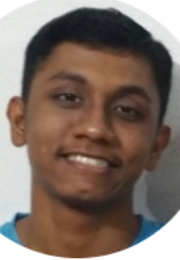
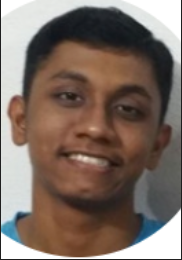
Update AboutUs to resolve image issues

diff --git a/docs/AboutUs.md b/docs/AboutUs.md
@@ -21,7 +21,7 @@ You can reach us at the email `seer[at]comp.nus.edu.sg`
 
 ### Hariprasath S/O R Mohan
 
-<img src="images/HM33-Stu.png" width="200px">
+<img src="images/HM33-Stu.PNG" width="200px">
 
 [[github](http://github.com/HM33-Stu)]
 [[portfolio](team/HM33-Stu.md)]
